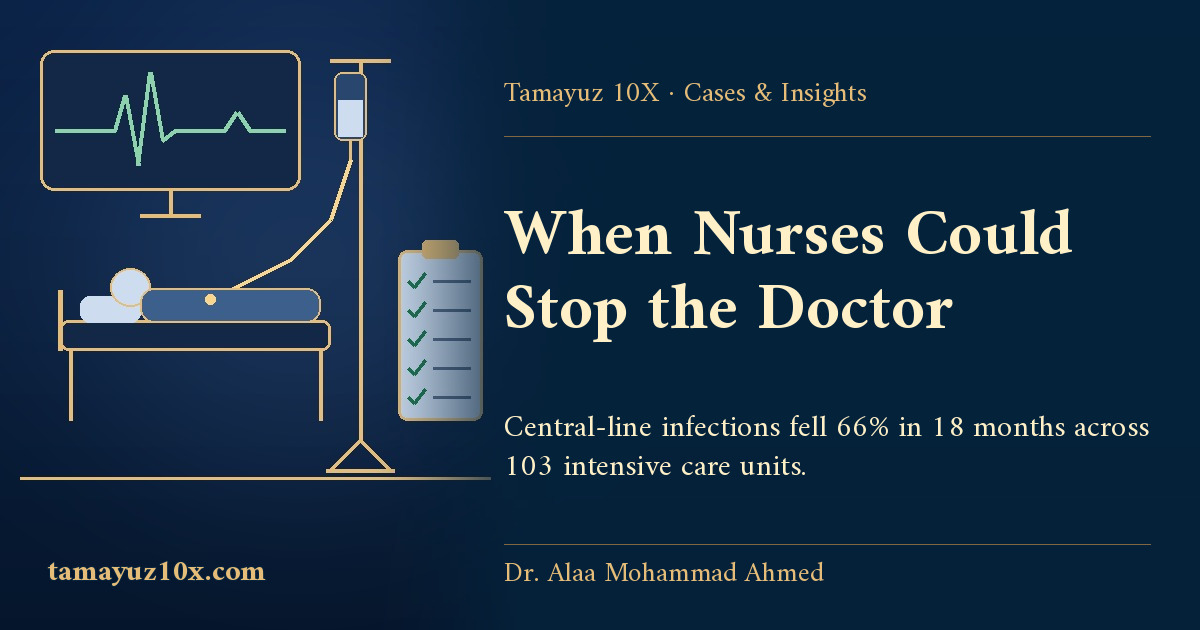
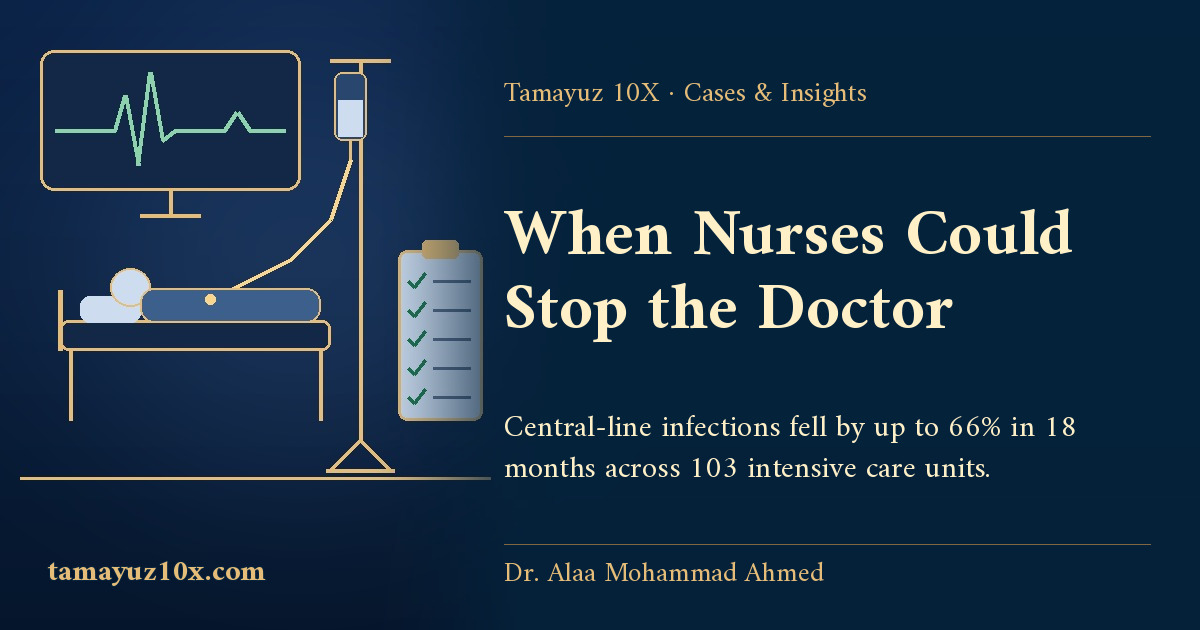
State the Keystone result as up to 66%, as the NEJM study reports
Claude-Session: https://claude.ai/code/session_01AmRaMXREMsWgb2wszCcTfs

Changed region(s): [[0.4008, 0.7238, 0.8325, 0.754], [0.6783, 0.6635, 0.9558, 0.6937]]

diff --git a/case-michigan-keystone-icu-checklist-infections.html b/case-michigan-keystone-icu-checklist-infections.html
@@ -1,12 +1,12 @@
-<!doctype html><html lang="ar" dir="rtl"><head><meta charset="utf-8"><meta name="viewport" content="width=device-width,initial-scale=1"><title>كيف خفّضت وحدات العناية المركزة في ميشيغان عدوى كان الأطباء يعدّونها ثمنًا لا مفرّ منه؟ | التميّز 10X</title><meta name="description" content="كانت عدوى الدم الناتجة عن القسطرة المركزية تُعدّ مضاعفة معتادة في العناية المركزة. ثم اتفقت 103 وحدات في ميشيغان على خمس ممارسات، وأعطت التمريض حق إيقاف الإجراء، فانخفض معدل العدوى 66% خلال 18 شهرًا. فما الذي تغيّر، ولماذا لم يتكرر الأثر نفسه في إنجلترا؟"><link rel="canonical" href="https://tamayuz10x.com/case-michigan-keystone-icu-checklist-infections.html"><link rel="alternate" hreflang="ar" href="https://tamayuz10x.com/case-michigan-keystone-icu-checklist-infections.html"><link rel="alternate" hreflang="en" href="https://tamayuz10x.com/en/case-michigan-keystone-icu-checklist-infections.html"><link rel="alternate" hreflang="x-default" href="https://tamayuz10x.com/case-michigan-keystone-icu-checklist-infections.html"><meta property="og:type" content="article"><meta property="og:title" content="حين صار بوسع التمريض أن يوقف الطبيب"><meta property="og:description" content="انخفضت عدوى القسطرة المركزية 66% خلال 18 شهرًا في 103 وحدات عناية مركزة، وبقيت منخفضة بعد ثلاث سنوات. لكن نقل البرنامج إلى إنجلترا لم يحقق الأثر نفسه."><meta property="og:url" content="https://tamayuz10x.com/case-michigan-keystone-icu-checklist-infections.html"><meta property="og:image" content="https://tamayuz10x.com/assets/previews/story/case-michigan-keystone-icu-checklist-infections-ar.jpg?v=20261013-ega-10x"><meta property="article:published_time" content="2026-10-20"><meta property="article:modified_time" content="2026-10-20"><meta property="article:author" content="الدكتور علاء محمد أحمد"><meta name="twitter:card" content="summary_large_image"><meta name="twitter:title" content="كيف خفّضت ميشيغان عدوى عُدّت قدرًا في العناية المركزة؟"><meta name="twitter:description" content="خمس ممارسات معروفة، وحق التمريض في إيقاف الإجراء، وبيانات تعود إلى كل وحدة كل شهر."><meta name="twitter:image" content="https://tamayuz10x.com/assets/previews/story/case-michigan-keystone-icu-checklist-infections-ar.jpg?v=20261013-ega-10x"><link rel="stylesheet" href="/assets/css/style.css"><link rel="stylesheet" href="/assets/css/story-cards.css?v=20261013-ega-10x"><style>.case{max-width:980px;margin:auto;padding:28px 20px 80px}.case h1{font-size:clamp(2rem,5vw,3.6rem);color:#0b2545}.case p,.case li{font-size:1.06rem;line-height:1.95;color:#2d4057}.case section{margin:38px 0}.story-cover img{width:100%;border-radius:22px}.metrics,.pillars{display:grid;grid-template-columns:repeat(2,1fr);gap:14px}.metrics div,.pillars div{padding:18px;border:1px solid #ddd;border-radius:16px}.metrics strong{display:block;font-size:1.5rem;color:#0b2545}.move,.question{padding:22px;background:#0b2545;color:#fff;border-radius:18px}.move p,.question p{color:#fff}.note{padding:18px;background:#faf6ed;border-inline-start:4px solid #c6a15f}.timeline li{margin-bottom:10px}@media(max-width:650px){.metrics,.pillars{grid-template-columns:1fr}}</style><script type="application/ld+json">{"@context": "https://schema.org", "@graph": [{"@type": "Article", "headline": "كيف خفّضت وحدات العناية المركزة في ميشيغان عدوى كان الأطباء يعدّونها ثمنًا لا مفرّ منه؟", "datePublished": "2026-10-20", "dateModified": "2026-10-20", "inLanguage": "ar", "author": {"@type": "Person", "name": "الدكتور علاء محمد أحمد"}, "publisher": {"@type": "Organization", "name": "التميّز 10X"}, "mainEntityOfPage": "https://tamayuz10x.com/case-michigan-keystone-icu-checklist-infections.html", "image": {"@type": "ImageObject", "url": "https://tamayuz10x.com/assets/previews/story/case-michigan-keystone-icu-checklist-infections-ar.jpg?v=20261013-ega-10x", "width": 1200, "height": 630, "caption": "غلاف توضيحي بالكحلي والذهبي لحالة ميشيغان يُظهر سرير عناية مركزة وأنبوب قسطرة وقائمة تحقق بخمس علامات وخط نبض على شاشة."}}, {"@type": "BreadcrumbList", "itemListElement": [{"@type": "ListItem", "position": 1, "name": "الرئيسية", "item": "https://tamayuz10x.com/"}, {"@type": "ListItem", "position": 2, "name": "الحالات", "item": "https://tamayuz10x.com/articles.html"}, {"@type": "ListItem", "position": 3, "name": "ميشيغان", "item": "https://tamayuz10x.com/case-michigan-keystone-icu-checklist-infections.html"}]}]}</script><meta property="og:image:secure_url" content="https://tamayuz10x.com/assets/previews/story/case-michigan-keystone-icu-checklist-infections-ar.jpg?v=20261013-ega-10x">
+<!doctype html><html lang="ar" dir="rtl"><head><meta charset="utf-8"><meta name="viewport" content="width=device-width,initial-scale=1"><title>كيف خفّضت وحدات العناية المركزة في ميشيغان عدوى كان الأطباء يعدّونها ثمنًا لا مفرّ منه؟ | التميّز 10X</title><meta name="description" content="كانت عدوى الدم الناتجة عن القسطرة المركزية تُعدّ مضاعفة معتادة في العناية المركزة. ثم اتفقت 103 وحدات في ميشيغان على خمس ممارسات، وأعطت التمريض حق إيقاف الإجراء، فانخفض معدل العدوى بنسبة تصل إلى 66% خلال 18 شهرًا. فما الذي تغيّر، ولماذا لم يتكرر الأثر نفسه في إنجلترا؟"><link rel="canonical" href="https://tamayuz10x.com/case-michigan-keystone-icu-checklist-infections.html"><link rel="alternate" hreflang="ar" href="https://tamayuz10x.com/case-michigan-keystone-icu-checklist-infections.html"><link rel="alternate" hreflang="en" href="https://tamayuz10x.com/en/case-michigan-keystone-icu-checklist-infections.html"><link rel="alternate" hreflang="x-default" href="https://tamayuz10x.com/case-michigan-keystone-icu-checklist-infections.html"><meta property="og:type" content="article"><meta property="og:title" content="حين صار بوسع التمريض أن يوقف الطبيب"><meta property="og:description" content="انخفضت عدوى القسطرة المركزية بنسبة تصل إلى 66% خلال 18 شهرًا في 103 وحدات عناية مركزة، وبقيت منخفضة بعد ثلاث سنوات. لكن نقل البرنامج إلى إنجلترا لم يحقق الأثر نفسه."><meta property="og:url" content="https://tamayuz10x.com/case-michigan-keystone-icu-checklist-infections.html"><meta property="og:image" content="https://tamayuz10x.com/assets/previews/story/case-michigan-keystone-icu-checklist-infections-ar.jpg?v=20261013-ega-10x"><meta property="article:published_time" content="2026-10-20"><meta property="article:modified_time" content="2026-10-20"><meta property="article:author" content="الدكتور علاء محمد أحمد"><meta name="twitter:card" content="summary_large_image"><meta name="twitter:title" content="كيف خفّضت ميشيغان عدوى عُدّت قدرًا في العناية المركزة؟"><meta name="twitter:description" content="خمس ممارسات معروفة، وحق التمريض في إيقاف الإجراء، وبيانات تعود إلى كل وحدة كل شهر."><meta name="twitter:image" content="https://tamayuz10x.com/assets/previews/story/case-michigan-keystone-icu-checklist-infections-ar.jpg?v=20261013-ega-10x"><link rel="stylesheet" href="/assets/css/style.css"><link rel="stylesheet" href="/assets/css/story-cards.css?v=20261013-ega-10x"><style>.case{max-width:980px;margin:auto;padding:28px 20px 80px}.case h1{font-size:clamp(2rem,5vw,3.6rem);color:#0b2545}.case p,.case li{font-size:1.06rem;line-height:1.95;color:#2d4057}.case section{margin:38px 0}.story-cover img{width:100%;border-radius:22px}.metrics,.pillars{display:grid;grid-template-columns:repeat(2,1fr);gap:14px}.metrics div,.pillars div{padding:18px;border:1px solid #ddd;border-radius:16px}.metrics strong{display:block;font-size:1.5rem;color:#0b2545}.move,.question{padding:22px;background:#0b2545;color:#fff;border-radius:18px}.move p,.question p{color:#fff}.note{padding:18px;background:#faf6ed;border-inline-start:4px solid #c6a15f}.timeline li{margin-bottom:10px}@media(max-width:650px){.metrics,.pillars{grid-template-columns:1fr}}</style><script type="application/ld+json">{"@context": "https://schema.org", "@graph": [{"@type": "Article", "headline": "كيف خفّضت وحدات العناية المركزة في ميشيغان عدوى كان الأطباء يعدّونها ثمنًا لا مفرّ منه؟", "datePublished": "2026-10-20", "dateModified": "2026-10-20", "inLanguage": "ar", "author": {"@type": "Person", "name": "الدكتور علاء محمد أحمد"}, "publisher": {"@type": "Organization", "name": "التميّز 10X"}, "mainEntityOfPage": "https://tamayuz10x.com/case-michigan-keystone-icu-checklist-infections.html", "image": {"@type": "ImageObject", "url": "https://tamayuz10x.com/assets/previews/story/case-michigan-keystone-icu-checklist-infections-ar.jpg?v=20261013-ega-10x", "width": 1200, "height": 630, "caption": "غلاف توضيحي بالكحلي والذهبي لحالة ميشيغان يُظهر سرير عناية مركزة وأنبوب قسطرة وقائمة تحقق بخمس علامات وخط نبض على شاشة."}}, {"@type": "BreadcrumbList", "itemListElement": [{"@type": "ListItem", "position": 1, "name": "الرئيسية", "item": "https://tamayuz10x.com/"}, {"@type": "ListItem", "position": 2, "name": "الحالات", "item": "https://tamayuz10x.com/articles.html"}, {"@type": "ListItem", "position": 3, "name": "ميشيغان", "item": "https://tamayuz10x.com/case-michigan-keystone-icu-checklist-infections.html"}]}]}</script><meta property="og:image:secure_url" content="https://tamayuz10x.com/assets/previews/story/case-michigan-keystone-icu-checklist-infections-ar.jpg?v=20261013-ega-10x">
 <meta property="og:image:type" content="image/jpeg">
 <meta property="og:image:width" content="1200">
 <meta property="og:image:height" content="630">
 <meta property="og:image:alt" content="غلاف توضيحي بالكحلي والذهبي لحالة ميشيغان يُظهر سرير عناية مركزة وأنبوب قسطرة وقائمة تحقق بخمس علامات وخط نبض على شاشة.">
 <meta name="twitter:image:alt" content="غلاف توضيحي بالكحلي والذهبي لحالة ميشيغان يُظهر سرير عناية مركزة وأنبوب قسطرة وقائمة تحقق بخمس علامات وخط نبض على شاشة.">
 </head>
-<body><main class="case"><div><span>حالة 10X · الرعاية الصحية</span><h1 data-tenx-speech="كَيْفَ خَفَّضَتْ وَحَدَاتُ الْعِنَايَةِ الْمُرَكَّزَةِ فِي مِيشِيغَانَ عَدْوَى كَانَ الْأَطِبَّاءُ يَعُدُّونَهَا ثَمَنًا لَا مَفَرَّ مِنْهُ؟">كيف خفّضت وحدات العناية المركزة في ميشيغان عدوى كان الأطباء يعدّونها ثمنًا لا مفرّ منه؟</h1><p data-tenx-speech="كَانَ الْأَطِبَّاءُ فِي وَحَدَاتِ الْعِنَايَةِ الْمُرَكَّزَةِ يَعُدُّونَ عَدْوَى الدَّمِ النَّاتِجَةَ عَنِ الْقَسْطَرَةِ الْمَرْكَزِيَّةِ مُضَاعَفَةً مُعْتَادَةً مِنْ مُضَاعَفَاتِ الْعِلَاجِ. ثُمَّ اتَّفَقَتْ مِئَةٌ وَثَلَاثُ وَحَدَاتٍ، مُعْظَمُهَا فِي وِلَايَةِ مِيشِيغَانَ الْأَمْرِيكِيَّةِ، عَلَى خَمْسِ مُمَارَسَاتٍ مَعْرُوفَةٍ، وَأَعْطَتِ التَّمْرِيضَ حَقَّ إِيقَافِ الْإِجْرَاءِ إِذَا أُغْفِلَتْ خُطْوَةٌ مِنْهَا. فَانْخَفَضَ مُعَدَّلُ الْعَدْوَى سِتَّةً وَسِتِّينَ فِي الْمِئَةِ خِلَالَ ثَمَانِيَةَ عَشَرَ شَهْرًا، وَبَقِيَ مُنْخَفِضًا بَعْدَ ثَلَاثِ سَنَوَاتٍ.">كان الأطباء في وحدات العناية المركزة يعدّون عدوى الدم الناتجة عن القسطرة المركزية مضاعفةً معتادة من مضاعفات العلاج. ثم اتفقت 103 وحدات، معظمها في ولاية ميشيغان الأمريكية، على خمس ممارسات معروفة، وأعطت التمريض حق إيقاف الإجراء إذا أُغفلت خطوة منها. فانخفض معدل العدوى 66% خلال 18 شهرًا، وبقي منخفضًا بعد ثلاث سنوات.</p><figure class="story-cover"><img src="/assets/previews/story/case-michigan-keystone-icu-checklist-infections-ar.jpg?v=20261013-ega-10x" alt="غلاف توضيحي بالكحلي والذهبي لحالة ميشيغان يُظهر سرير عناية مركزة وأنبوب قسطرة وقائمة تحقق بخمس علامات وخط نبض على شاشة." width="1200" height="630" decoding="async" fetchpriority="high"><figcaption class="story-cover-note" data-no-speech="true">صورة توضيحية</figcaption></figure></div><article>
-<section><h2>الملخص التنفيذي</h2><p>يحتاج كثير من مرضى العناية المركزة إلى <strong><span dir="ltr">Central Venous Catheter</span> — قسطرة وريدية مركزية</strong>، وهي أنبوب رفيع يُثبَّت في وريد كبير قرب القلب لإعطاء الأدوية والسوائل. وقد تتسلل الجراثيم عبره إلى الدم، فتصيب المريض عدوى خطيرة. وكانت هذه العدوى شائعة حتى عُدّت مضاعفة روتينية من مضاعفات العلاج. [6] وتنقل دراسة لفريق المشروع تقديرات منشورة تفيد بأنها تصيب في الولايات المتحدة نحو 82 ألف مريض في العناية المركزة كل عام، وترتبط بما يصل إلى 28 ألف وفاة، وتكلّف الإصابة الواحدة نحو 45 ألف دولار. [2]</p><p>ولم تكن المشكلة في نقص المعرفة، فالخطوات التي تمنع العدوى معروفة منذ سنوات، بل في أنها تُغفل تحت ضغط العمل. فحين راقب الممرضون والممرضات في مستشفى جونز هوبكنز تركيب القسطرة شهرًا كاملًا، وجدوا أن خطوة واحدة على الأقل سقطت مع أكثر من ثلث المرضى. [6]</p><p>وفي 2003 طلبت جمعية مستشفيات ميشيغان من الطبيب بيتر برونوفوست وفريقه في جامعة جونز هوبكنز أن ينقلوا تجربتهم إلى وحدات الولاية، فنشأ مشروع <strong><span dir="ltr">Keystone ICU (Intensive Care Unit)</span> — كيستون لوحدات العناية المركزة</strong>. [6] ولم يكتفِ المشروع بقائمة تحقق، بل غيّر من يملك حق التدخل؛ فصار التمريض يشهد تركيب القسطرة ويوقفه إذا أُغفلت خطوة، وصار لكل وحدة شريك من الإدارة العليا، وصارت معدلات العدوى تُقاس كل شهر وتعود إلى الفرق. [5]</p><p>فانخفض متوسط المعدل في 103 وحدات من 7.7 إصابات لكل ألف يوم قسطرة، أي لكل ألف يوم يقضيه المرضى والقسطرة في أجسامهم، إلى 1.4 بعد 18 شهرًا. [1] وبقي عند 1.1 بعد 36 شهرًا في 90 وحدة واصلت الإبلاغ. [2] غير أن الدراسة الأصلية قارنت الوحدات بماضيها لا بوحدات لم تطبق البرنامج، وحين نُقل البرنامج إلى إنجلترا لم يتفوق على تحسن عام كان يحدث أصلًا. [8]</p><p>ودلالة 10X أن ميشيغان لم تأتِ بعلاج جديد، بل كسرت افتراضًا راسخًا يقول إن هذه العدوى ثمن لا بد منه، فنقلت الوقاية من يقظة الطبيب وحده إلى نظام تشترك فيه الوحدة والإدارة والبيانات.</p><div class="metrics"><div><strong>66%</strong>انخفض معدل العدوى في الوحدات المشاركة بهذه النسبة بعد 18 شهرًا من التطبيق. [1]</div><div><strong>103 وحدات</strong>قدّمت بياناتها إلى المشروع، وأغلبها وحدات عناية مركزة في ميشيغان. [1]</div><div><strong>1.1 إصابة</strong>هو متوسط المعدل لكل ألف يوم قسطرة بعد 36 شهرًا، وقد كان 7.7 قبل البرنامج. [2]</div><div><strong>41%</strong>انخفض المعدل بهذه النسبة في وحدات البالغين حين نُقل البرنامج إلى 44 ولاية أمريكية. [7]</div></div></section>
+<body><main class="case"><div><span>حالة 10X · الرعاية الصحية</span><h1 data-tenx-speech="كَيْفَ خَفَّضَتْ وَحَدَاتُ الْعِنَايَةِ الْمُرَكَّزَةِ فِي مِيشِيغَانَ عَدْوَى كَانَ الْأَطِبَّاءُ يَعُدُّونَهَا ثَمَنًا لَا مَفَرَّ مِنْهُ؟">كيف خفّضت وحدات العناية المركزة في ميشيغان عدوى كان الأطباء يعدّونها ثمنًا لا مفرّ منه؟</h1><p data-tenx-speech="كَانَ الْأَطِبَّاءُ فِي وَحَدَاتِ الْعِنَايَةِ الْمُرَكَّزَةِ يَعُدُّونَ عَدْوَى الدَّمِ النَّاتِجَةَ عَنِ الْقَسْطَرَةِ الْمَرْكَزِيَّةِ مُضَاعَفَةً مُعْتَادَةً مِنْ مُضَاعَفَاتِ الْعِلَاجِ. ثُمَّ اتَّفَقَتْ مِئَةٌ وَثَلَاثُ وَحَدَاتٍ، مُعْظَمُهَا فِي وِلَايَةِ مِيشِيغَانَ الْأَمْرِيكِيَّةِ، عَلَى خَمْسِ مُمَارَسَاتٍ مَعْرُوفَةٍ، وَأَعْطَتِ التَّمْرِيضَ حَقَّ إِيقَافِ الْإِجْرَاءِ إِذَا أُغْفِلَتْ خُطْوَةٌ مِنْهَا. فَانْخَفَضَ مُعَدَّلُ الْعَدْوَى بِنِسْبَةٍ تَصِلُ إِلَى سِتَّةٍ وَسِتِّينَ فِي الْمِئَةِ خِلَالَ ثَمَانِيَةَ عَشَرَ شَهْرًا، وَبَقِيَ مُنْخَفِضًا بَعْدَ ثَلَاثِ سَنَوَاتٍ.">كان الأطباء في وحدات العناية المركزة يعدّون عدوى الدم الناتجة عن القسطرة المركزية مضاعفةً معتادة من مضاعفات العلاج. ثم اتفقت 103 وحدات، معظمها في ولاية ميشيغان الأمريكية، على خمس ممارسات معروفة، وأعطت التمريض حق إيقاف الإجراء إذا أُغفلت خطوة منها. فانخفض معدل العدوى بنسبة تصل إلى 66% خلال 18 شهرًا، وبقي منخفضًا بعد ثلاث سنوات.</p><figure class="story-cover"><img src="/assets/previews/story/case-michigan-keystone-icu-checklist-infections-ar.jpg?v=20261013-ega-10x" alt="غلاف توضيحي بالكحلي والذهبي لحالة ميشيغان يُظهر سرير عناية مركزة وأنبوب قسطرة وقائمة تحقق بخمس علامات وخط نبض على شاشة." width="1200" height="630" decoding="async" fetchpriority="high"><figcaption class="story-cover-note" data-no-speech="true">صورة توضيحية</figcaption></figure></div><article>
+<section><h2>الملخص التنفيذي</h2><p>يحتاج كثير من مرضى العناية المركزة إلى <strong><span dir="ltr">Central Venous Catheter</span> — قسطرة وريدية مركزية</strong>، وهي أنبوب رفيع يُثبَّت في وريد كبير قرب القلب لإعطاء الأدوية والسوائل. وقد تتسلل الجراثيم عبره إلى الدم، فتصيب المريض عدوى خطيرة. وكانت هذه العدوى شائعة حتى عُدّت مضاعفة روتينية من مضاعفات العلاج. [6] وتنقل دراسة لفريق المشروع تقديرات منشورة تفيد بأنها تصيب في الولايات المتحدة نحو 82 ألف مريض في العناية المركزة كل عام، وترتبط بما يصل إلى 28 ألف وفاة، وتكلّف الإصابة الواحدة نحو 45 ألف دولار. [2]</p><p>ولم تكن المشكلة في نقص المعرفة، فالخطوات التي تمنع العدوى معروفة منذ سنوات، بل في أنها تُغفل تحت ضغط العمل. فحين راقب الممرضون والممرضات في مستشفى جونز هوبكنز تركيب القسطرة شهرًا كاملًا، وجدوا أن خطوة واحدة على الأقل سقطت مع أكثر من ثلث المرضى. [6]</p><p>وفي 2003 طلبت جمعية مستشفيات ميشيغان من الطبيب بيتر برونوفوست وفريقه في جامعة جونز هوبكنز أن ينقلوا تجربتهم إلى وحدات الولاية، فنشأ مشروع <strong><span dir="ltr">Keystone ICU (Intensive Care Unit)</span> — كيستون لوحدات العناية المركزة</strong>. [6] ولم يكتفِ المشروع بقائمة تحقق، بل غيّر من يملك حق التدخل؛ فصار التمريض يشهد تركيب القسطرة ويوقفه إذا أُغفلت خطوة، وصار لكل وحدة شريك من الإدارة العليا، وصارت معدلات العدوى تُقاس كل شهر وتعود إلى الفرق. [5]</p><p>فانخفض متوسط المعدل في 103 وحدات من 7.7 إصابات لكل ألف يوم قسطرة، أي لكل ألف يوم يقضيه المرضى والقسطرة في أجسامهم، إلى 1.4 بعد 18 شهرًا. [1] وبقي عند 1.1 بعد 36 شهرًا في 90 وحدة واصلت الإبلاغ. [2] غير أن الدراسة الأصلية قارنت الوحدات بماضيها لا بوحدات لم تطبق البرنامج، وحين نُقل البرنامج إلى إنجلترا لم يتفوق على تحسن عام كان يحدث أصلًا. [8]</p><p>ودلالة 10X أن ميشيغان لم تأتِ بعلاج جديد، بل كسرت افتراضًا راسخًا يقول إن هذه العدوى ثمن لا بد منه، فنقلت الوقاية من يقظة الطبيب وحده إلى نظام تشترك فيه الوحدة والإدارة والبيانات.</p><div class="metrics"><div><strong>حتى 66%</strong>انخفض معدل العدوى في الوحدات المشاركة بنسبة تصل إلى هذا الحد بعد 18 شهرًا من التطبيق. [1]</div><div><strong>103 وحدات</strong>قدّمت بياناتها إلى المشروع، وأغلبها وحدات عناية مركزة في ميشيغان. [1]</div><div><strong>1.1 إصابة</strong>هو متوسط المعدل لكل ألف يوم قسطرة بعد 36 شهرًا، وقد كان 7.7 قبل البرنامج. [2]</div><div><strong>41%</strong>انخفض المعدل بهذه النسبة في وحدات البالغين حين نُقل البرنامج إلى 44 ولاية أمريكية. [7]</div></div></section>
 <section><h2>كانت العدوى تُعدّ جزءًا من العلاج</h2><p>في 2001 كتب برونوفوست على ورقة واحدة خطوات تركيب القسطرة، ثم أقنع إدارة مستشفاه بأن تأذن للتمريض بإيقاف الطبيب إذا تجاوز خطوة منها، وبأن يسأل التمريض كل يوم هل ما زالت القسطرة لازمة. فانخفضت نسبة القسطرات التي تنقل العدوى خلال عشرة أيام من تركيبها من 11% إلى الصفر. [6] غير أن كثيرًا من الأطباء شكّكوا في النتيجة، إذ تحققت في مستشفى واحد غني بالموارد والعاملين، يمرّ فيه صاحب الفكرة بنفسه على الوحدات. [6] فهل تصمد الفكرة في مستشفيات مثقلة بالمرضى، كمستشفى في ديترويت خسر ثلث عامليه بين 2000 و2003؟ [6]</p></section>
 <section><h2>التحول الحاسم 10X</h2><div class="move"><p>كانت الوقاية تعتمد على ذاكرة الطبيب ويقظته، فإذا أخطأ عُدّ الخطأ تقصيرًا فرديًا أو سوء حظ. ثم صارت مسؤولية الفريق كله، فقائمة التحقق تجعل الحد الأدنى صريحًا، والتمريض يشهد الإجراء ويملك إيقافه، وعربة واحدة تجمع كل الأدوات، والإدارة العليا تزيل العوائق، والبيانات تُري كل وحدة أين تقف. فلم يعد السؤال: من أخطأ؟ بل صار: كيف نصمّم العمل حتى يصعب الخطأ؟ [5][6]</p></div></section>
 <section><h2>كيف انتقلت الفكرة من مستشفى واحد إلى ولاية كاملة؟</h2><ol class="timeline"><li>في 2001 وضع برونوفوست قائمة القسطرة في وحدة العناية المركزة بجونز هوبكنز. [6]</li><li>في 2003 طلبت جمعية مستشفيات ميشيغان تطبيق القوائم في الولاية، وموّلت <strong><span dir="ltr">AHRQ (Agency for Healthcare Research and Quality)</span> — الوكالة الأمريكية لأبحاث الرعاية الصحية وجودتها</strong> المرحلة الأولى من أكتوبر 2003 إلى سبتمبر 2005. [2][6]</li><li>في 2004 بدأت الاتصالات الهاتفية مع المستشفيات، واكتشف المسؤولون التنفيذيون في الشهر الأول أن مطهّر الكلورهيكسيدين متوافر في أقل من ثلث الوحدات، فوفّروه في جميعها خلال أسابيع. [6]</li><li>في ديسمبر 2006 نُشرت النتائج الأولى في مجلة نيو إنغلاند الطبية. [1]</li><li>بعد النشر أوقف <strong><span dir="ltr">OHRP (Office for Human Research Protections)</span> — مكتب حماية المشاركين في الأبحاث</strong> جمع البيانات مؤقتًا، لأنه عدّ المشروع بحثًا يحتاج إلى موافقات لجان الأخلاقيات وموافقة المرضى والعاملين. [10]</li><li>بين 2009 و2011 بدأت 44 ولاية تطبيق نسخة وطنية من البرنامج، شملت أكثر من ألف مستشفى و1,800 وحدة. [7]</li><li>في 2010 أظهرت دراسة المتابعة أن الانخفاض استمر 36 شهرًا. [2]</li></ol></section>

diff --git a/en/case-michigan-keystone-icu-checklist-infections.html b/en/case-michigan-keystone-icu-checklist-infections.html
@@ -1,12 +1,12 @@
-<!doctype html><html lang="en" dir="ltr"><head><meta charset="utf-8"><meta name="viewport" content="width=device-width,initial-scale=1"><title>How Did Michigan’s ICUs Cut an Infection Doctors Had Accepted as Inevitable? | Tamayuz 10X</title><meta name="description" content="Bloodstream infections from central lines were treated as a routine hazard of intensive care. Then 103 units, mostly in Michigan, adopted five known practices and gave nurses the authority to stop the procedure. Infection rates fell 66% in 18 months. What changed, and why did England not see the same effect?"><link rel="canonical" href="https://tamayuz10x.com/en/case-michigan-keystone-icu-checklist-infections.html"><link rel="alternate" hreflang="ar" href="https://tamayuz10x.com/case-michigan-keystone-icu-checklist-infections.html"><link rel="alternate" hreflang="en" href="https://tamayuz10x.com/en/case-michigan-keystone-icu-checklist-infections.html"><link rel="alternate" hreflang="x-default" href="https://tamayuz10x.com/case-michigan-keystone-icu-checklist-infections.html"><meta property="og:type" content="article"><meta property="og:title" content="When Nurses Could Stop the Doctor"><meta property="og:description" content="Central-line infections fell 66% within 18 months in 103 intensive care units and stayed low three years on. When the program was copied in England, the effect was much harder to see."><meta property="og:url" content="https://tamayuz10x.com/en/case-michigan-keystone-icu-checklist-infections.html"><meta property="og:image" content="https://tamayuz10x.com/assets/previews/story/case-michigan-keystone-icu-checklist-infections-en.jpg?v=20261013-ega-10x"><meta property="article:published_time" content="2026-10-20"><meta property="article:modified_time" content="2026-10-20"><meta property="article:author" content="Dr. Alaa Mohammad Ahmed"><meta name="twitter:card" content="summary_large_image"><meta name="twitter:title" content="How Michigan’s ICUs Cut a “Routine” Infection"><meta name="twitter:description" content="Five well-known practices, nurses with authority to stop a procedure, and monthly data returned to every unit."><meta name="twitter:image" content="https://tamayuz10x.com/assets/previews/story/case-michigan-keystone-icu-checklist-infections-en.jpg?v=20261013-ega-10x"><link rel="stylesheet" href="/assets/css/style.css"><link rel="stylesheet" href="/assets/css/story-cards.css?v=20261013-ega-10x"><style>.case{max-width:980px;margin:auto;padding:28px 20px 80px}.case h1{font-size:clamp(2rem,5vw,3.6rem);color:#0b2545}.case p,.case li{font-size:1.06rem;line-height:1.95;color:#2d4057}.case section{margin:38px 0}.story-cover img{width:100%;border-radius:22px}.metrics,.pillars{display:grid;grid-template-columns:repeat(2,1fr);gap:14px}.metrics div,.pillars div{padding:18px;border:1px solid #ddd;border-radius:16px}.metrics strong{display:block;font-size:1.5rem;color:#0b2545}.move,.question{padding:22px;background:#0b2545;color:#fff;border-radius:18px}.move p,.question p{color:#fff}.note{padding:18px;background:#faf6ed;border-inline-start:4px solid #c6a15f}.timeline li{margin-bottom:10px}@media(max-width:650px){.metrics,.pillars{grid-template-columns:1fr}}</style><script type="application/ld+json">{"@context": "https://schema.org", "@graph": [{"@type": "Article", "headline": "How Did Michigan’s ICUs Cut an Infection Doctors Had Accepted as Inevitable?", "datePublished": "2026-10-20", "dateModified": "2026-10-20", "inLanguage": "en", "author": {"@type": "Person", "name": "Dr. Alaa Mohammad Ahmed"}, "publisher": {"@type": "Organization", "name": "Tamayuz 10X"}, "mainEntityOfPage": "https://tamayuz10x.com/en/case-michigan-keystone-icu-checklist-infections.html", "image": {"@type": "ImageObject", "url": "https://tamayuz10x.com/assets/previews/story/case-michigan-keystone-icu-checklist-infections-en.jpg?v=20261013-ega-10x", "width": 1200, "height": 630, "caption": "Navy and gold illustrative cover for the Michigan case, showing an intensive care bed, a catheter line, a five-item checklist and a heartbeat trace on a monitor."}}, {"@type": "BreadcrumbList", "itemListElement": [{"@type": "ListItem", "position": 1, "name": "Home", "item": "https://tamayuz10x.com/en/"}, {"@type": "ListItem", "position": 2, "name": "Cases", "item": "https://tamayuz10x.com/en/articles.html"}, {"@type": "ListItem", "position": 3, "name": "Michigan", "item": "https://tamayuz10x.com/en/case-michigan-keystone-icu-checklist-infections.html"}]}]}</script><meta property="og:image:secure_url" content="https://tamayuz10x.com/assets/previews/story/case-michigan-keystone-icu-checklist-infections-en.jpg?v=20261013-ega-10x">
+<!doctype html><html lang="en" dir="ltr"><head><meta charset="utf-8"><meta name="viewport" content="width=device-width,initial-scale=1"><title>How Did Michigan’s ICUs Cut an Infection Doctors Had Accepted as Inevitable? | Tamayuz 10X</title><meta name="description" content="Bloodstream infections from central lines were treated as a routine hazard of intensive care. Then 103 units, mostly in Michigan, adopted five known practices and gave nurses the authority to stop the procedure. Infection rates fell by up to 66% in 18 months. What changed, and why did England not see the same effect?"><link rel="canonical" href="https://tamayuz10x.com/en/case-michigan-keystone-icu-checklist-infections.html"><link rel="alternate" hreflang="ar" href="https://tamayuz10x.com/case-michigan-keystone-icu-checklist-infections.html"><link rel="alternate" hreflang="en" href="https://tamayuz10x.com/en/case-michigan-keystone-icu-checklist-infections.html"><link rel="alternate" hreflang="x-default" href="https://tamayuz10x.com/case-michigan-keystone-icu-checklist-infections.html"><meta property="og:type" content="article"><meta property="og:title" content="When Nurses Could Stop the Doctor"><meta property="og:description" content="Central-line infections fell by up to 66% within 18 months in 103 intensive care units and stayed low three years on. When the program was copied in England, the effect was much harder to see."><meta property="og:url" content="https://tamayuz10x.com/en/case-michigan-keystone-icu-checklist-infections.html"><meta property="og:image" content="https://tamayuz10x.com/assets/previews/story/case-michigan-keystone-icu-checklist-infections-en.jpg?v=20261013-ega-10x"><meta property="article:published_time" content="2026-10-20"><meta property="article:modified_time" content="2026-10-20"><meta property="article:author" content="Dr. Alaa Mohammad Ahmed"><meta name="twitter:card" content="summary_large_image"><meta name="twitter:title" content="How Michigan’s ICUs Cut a “Routine” Infection"><meta name="twitter:description" content="Five well-known practices, nurses with authority to stop a procedure, and monthly data returned to every unit."><meta name="twitter:image" content="https://tamayuz10x.com/assets/previews/story/case-michigan-keystone-icu-checklist-infections-en.jpg?v=20261013-ega-10x"><link rel="stylesheet" href="/assets/css/style.css"><link rel="stylesheet" href="/assets/css/story-cards.css?v=20261013-ega-10x"><style>.case{max-width:980px;margin:auto;padding:28px 20px 80px}.case h1{font-size:clamp(2rem,5vw,3.6rem);color:#0b2545}.case p,.case li{font-size:1.06rem;line-height:1.95;color:#2d4057}.case section{margin:38px 0}.story-cover img{width:100%;border-radius:22px}.metrics,.pillars{display:grid;grid-template-columns:repeat(2,1fr);gap:14px}.metrics div,.pillars div{padding:18px;border:1px solid #ddd;border-radius:16px}.metrics strong{display:block;font-size:1.5rem;color:#0b2545}.move,.question{padding:22px;background:#0b2545;color:#fff;border-radius:18px}.move p,.question p{color:#fff}.note{padding:18px;background:#faf6ed;border-inline-start:4px solid #c6a15f}.timeline li{margin-bottom:10px}@media(max-width:650px){.metrics,.pillars{grid-template-columns:1fr}}</style><script type="application/ld+json">{"@context": "https://schema.org", "@graph": [{"@type": "Article", "headline": "How Did Michigan’s ICUs Cut an Infection Doctors Had Accepted as Inevitable?", "datePublished": "2026-10-20", "dateModified": "2026-10-20", "inLanguage": "en", "author": {"@type": "Person", "name": "Dr. Alaa Mohammad Ahmed"}, "publisher": {"@type": "Organization", "name": "Tamayuz 10X"}, "mainEntityOfPage": "https://tamayuz10x.com/en/case-michigan-keystone-icu-checklist-infections.html", "image": {"@type": "ImageObject", "url": "https://tamayuz10x.com/assets/previews/story/case-michigan-keystone-icu-checklist-infections-en.jpg?v=20261013-ega-10x", "width": 1200, "height": 630, "caption": "Navy and gold illustrative cover for the Michigan case, showing an intensive care bed, a catheter line, a five-item checklist and a heartbeat trace on a monitor."}}, {"@type": "BreadcrumbList", "itemListElement": [{"@type": "ListItem", "position": 1, "name": "Home", "item": "https://tamayuz10x.com/en/"}, {"@type": "ListItem", "position": 2, "name": "Cases", "item": "https://tamayuz10x.com/en/articles.html"}, {"@type": "ListItem", "position": 3, "name": "Michigan", "item": "https://tamayuz10x.com/en/case-michigan-keystone-icu-checklist-infections.html"}]}]}</script><meta property="og:image:secure_url" content="https://tamayuz10x.com/assets/previews/story/case-michigan-keystone-icu-checklist-infections-en.jpg?v=20261013-ega-10x">
 <meta property="og:image:type" content="image/jpeg">
 <meta property="og:image:width" content="1200">
 <meta property="og:image:height" content="630">
 <meta property="og:image:alt" content="Navy and gold illustrative cover for the Michigan case, showing an intensive care bed, a catheter line, a five-item checklist and a heartbeat trace on a monitor.">
 <meta name="twitter:image:alt" content="Navy and gold illustrative cover for the Michigan case, showing an intensive care bed, a catheter line, a five-item checklist and a heartbeat trace on a monitor.">
 </head>
-<body><main class="case"><div><span>10X Case · Healthcare</span><h1>How Did Michigan’s ICUs Cut an Infection Doctors Had Accepted as Inevitable?</h1><p>In intensive care, bloodstream infections from central lines were treated as a routine complication. Then 103 units, most of them in the US state of Michigan, agreed on five well-known practices and gave nurses the authority to stop a line insertion if a step was missed. Infection rates fell 66% within 18 months and were still low three years later.</p><figure class="story-cover"><img src="/assets/previews/story/case-michigan-keystone-icu-checklist-infections-en.jpg?v=20261013-ega-10x" alt="Navy and gold illustrative cover for the Michigan case, showing an intensive care bed, a catheter line, a five-item checklist and a heartbeat trace on a monitor." width="1200" height="630" decoding="async" fetchpriority="high"><figcaption class="story-cover-note" data-no-speech="true">Illustrative image</figcaption></figure></div><article>
-<section><h2>Executive Summary</h2><p>Many intensive care patients need a <strong>central venous catheter</strong>, or central line: a thin tube placed in a large vein near the heart to deliver drugs and fluids. Bacteria can travel along it into the blood and cause a serious infection. These infections were so common that clinicians regarded them as a routine complication. [6] A study by the program team, citing published estimates, put the US toll at about 82,000 infections a year in intensive care units, up to 28,000 associated deaths, and roughly $45,000 per infection. [2]</p><p>The problem was not missing knowledge. The preventive steps had been taught for years but were skipped under pressure. When nurses at Johns Hopkins Hospital watched doctors insert lines for a month, at least one step was missed for more than a third of patients. [6]</p><p>In 2003 the Michigan Health &amp; Hospital Association asked Dr Peter Pronovost and his Johns Hopkins team to bring their approach to the state. The result was the <strong>Keystone ICU (Intensive Care Unit) project</strong>. [6] It changed who was allowed to intervene: a nurse now witnessed each insertion and could stop it if a step was missed, every unit was paired with a senior hospital executive, and infection rates were measured monthly and fed back to the teams. [5]</p><p>Across 103 units, the mean rate fell from 7.7 infections per 1,000 catheter-days (each day a patient has a line counts as one) to 1.4 after 18 months. [1] In the 90 units that kept reporting, it stood at 1.1 after 36 months. [2] But the original study compared units with their own past, not with units that did not take part, and when the program was copied in England it did no better than an improvement already under way. [8]</p><p>The 10X lesson is that Michigan introduced no new treatment. It broke the assumption that this harm was the unavoidable price of intensive care, and moved prevention from the vigilance of individual doctors to a system shared by the unit, its leaders and its data.</p><div class="metrics"><div><strong>66%</strong>The drop in infection rates in participating units 18 months after implementation. [1]</div><div><strong>103 units</strong>Intensive care units, mostly in Michigan, that reported data to the project. [1]</div><div><strong>1.1 infections</strong>The mean rate per 1,000 catheter-days after 36 months, down from 7.7 before the program. [2]</div><div><strong>41%</strong>The fall in adult ICU rates when the program was extended to 44 US states. [7]</div></div></section>
+<body><main class="case"><div><span>10X Case · Healthcare</span><h1>How Did Michigan’s ICUs Cut an Infection Doctors Had Accepted as Inevitable?</h1><p>In intensive care, bloodstream infections from central lines were treated as a routine complication. Then 103 units, most of them in the US state of Michigan, agreed on five well-known practices and gave nurses the authority to stop a line insertion if a step was missed. Infection rates fell by up to 66% within 18 months and were still low three years later.</p><figure class="story-cover"><img src="/assets/previews/story/case-michigan-keystone-icu-checklist-infections-en.jpg?v=20261013-ega-10x" alt="Navy and gold illustrative cover for the Michigan case, showing an intensive care bed, a catheter line, a five-item checklist and a heartbeat trace on a monitor." width="1200" height="630" decoding="async" fetchpriority="high"><figcaption class="story-cover-note" data-no-speech="true">Illustrative image</figcaption></figure></div><article>
+<section><h2>Executive Summary</h2><p>Many intensive care patients need a <strong>central venous catheter</strong>, or central line: a thin tube placed in a large vein near the heart to deliver drugs and fluids. Bacteria can travel along it into the blood and cause a serious infection. These infections were so common that clinicians regarded them as a routine complication. [6] A study by the program team, citing published estimates, put the US toll at about 82,000 infections a year in intensive care units, up to 28,000 associated deaths, and roughly $45,000 per infection. [2]</p><p>The problem was not missing knowledge. The preventive steps had been taught for years but were skipped under pressure. When nurses at Johns Hopkins Hospital watched doctors insert lines for a month, at least one step was missed for more than a third of patients. [6]</p><p>In 2003 the Michigan Health &amp; Hospital Association asked Dr Peter Pronovost and his Johns Hopkins team to bring their approach to the state. The result was the <strong>Keystone ICU (Intensive Care Unit) project</strong>. [6] It changed who was allowed to intervene: a nurse now witnessed each insertion and could stop it if a step was missed, every unit was paired with a senior hospital executive, and infection rates were measured monthly and fed back to the teams. [5]</p><p>Across 103 units, the mean rate fell from 7.7 infections per 1,000 catheter-days (each day a patient has a line counts as one) to 1.4 after 18 months. [1] In the 90 units that kept reporting, it stood at 1.1 after 36 months. [2] But the original study compared units with their own past, not with units that did not take part, and when the program was copied in England it did no better than an improvement already under way. [8]</p><p>The 10X lesson is that Michigan introduced no new treatment. It broke the assumption that this harm was the unavoidable price of intensive care, and moved prevention from the vigilance of individual doctors to a system shared by the unit, its leaders and its data.</p><div class="metrics"><div><strong>Up to 66%</strong>The estimated drop in infection rates in participating units 18 months after implementation. [1]</div><div><strong>103 units</strong>Intensive care units, mostly in Michigan, that reported data to the project. [1]</div><div><strong>1.1 infections</strong>The mean rate per 1,000 catheter-days after 36 months, down from 7.7 before the program. [2]</div><div><strong>41%</strong>The fall in adult ICU rates when the program was extended to 44 US states. [7]</div></div></section>
 <section><h2>An infection treated as part of the treatment</h2><p>In 2001 Pronovost wrote the steps for inserting a central line on a single sheet of paper. He then persuaded his hospital to let nurses stop a doctor who skipped a step, and to ask every day whether each line was still needed. The share of lines infected within ten days fell from 11% to zero. [6] Many doctors were unconvinced. The result came from one well-resourced hospital, with the checklist’s author walking its corridors. [6] Would it hold in hospitals overwhelmed with patients, such as a Detroit hospital that had cut a third of its staff between 2000 and 2003? [6]</p></section>
 <section><h2>The 10X Move</h2><div class="move"><p>Prevention used to depend on a doctor’s memory; when it failed, the failure was put down to individual lapse or bad luck. Keystone made it a team responsibility. The checklist made the minimum standard explicit. A nurse witnessed the procedure and could halt it. One cart held every item needed. Senior executives cleared obstacles. Data showed each unit where it stood. The question shifted from “Who made the mistake?” to “How do we design the work so the mistake is hard to make?” [5][6]</p></div></section>
 <section><h2>From one hospital to a whole state</h2><ol class="timeline"><li>2001: Pronovost introduces the central-line checklist in the Johns Hopkins intensive care unit. [6]</li><li>2003: The Michigan hospital association asks for the checklists to be used statewide. The <strong>Agency for Healthcare Research and Quality (AHRQ)</strong>, the federal agency that funds research on care quality, pays for the first phase, from October 2003 to September 2005. [2][6]</li><li>2004: Conference calls with hospitals begin. In the first month, executives find that chlorhexidine antiseptic is stocked in fewer than a third of the units; within weeks, every unit has it. [6]</li><li>December 2006: First results are published in the New England Journal of Medicine. [1]</li><li>After publication: The federal <strong>Office for Human Research Protections (OHRP)</strong> halts data collection, ruling that the project was research requiring ethics board approval and consent from patients and clinicians. [10]</li><li>2009–2011: Forty-four states begin a national version of the program, covering more than 1,000 hospitals and 1,800 units. [7]</li><li>2010: A follow-up study shows the reduction held for 36 months. [2]</li></ol></section>
